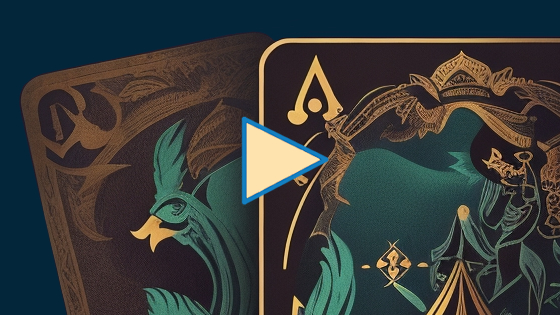
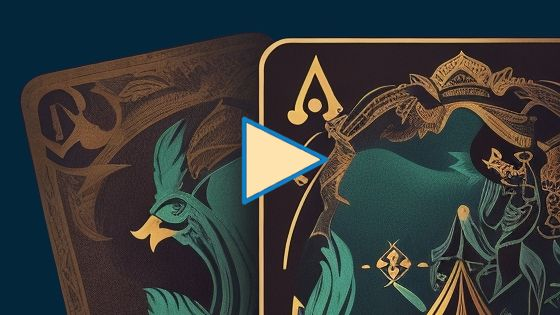
Optimize images

diff --git a/www-public/assets/css/style.min.css b/www-public/assets/css/style.min.css
@@ -1,1 +1,1 @@
-*{-webkit-box-sizing:border-box;box-sizing:border-box;margin:0;padding:0}html,body{height:100%;width:100%;font-family:Arial,Helvetica,sans-serif;font-size:95%;background-color:#0f0301}@media(max-width: 420px){html,body{font-size:90%}}#mainNav{width:100%;position:fixed;top:0;background-color:#04263b;display:table;text-align:center}@media(max-width: 720px){#mainNav{display:none}}#mainNav ul li{display:inline-block;list-style:none;text-align:center}#mainNav ul li a{display:inline-block;color:#fff;padding:1.5em;text-decoration:none}#mainNav ul li a:hover{background-color:rgba(249,128,80,.2);color:#f98050}#miniNav{width:100%;position:fixed;top:0;background-color:#04263b;text-align:right;display:none}@media(max-width: 720px){#miniNav{display:inline-block}}label{margin-right:1em;font-size:230%;line-height:1.75em;color:#fff;cursor:pointer}#toggle{display:none}.menu{width:100%;margin-right:0em;position:fixed;top:4em;text-align:center;display:none}@media(max-width: 720px){.menu{display:inline-block}}.menu a{display:block;width:100%;background-color:#04263b;text-decoration:none;color:#fff;line-height:2.5em;border-bottom:1.5px solid rgba(0,0,0,.3);z-index:2}.menu a:first-child{border-top:1.5px solid rgba(0,0,0,.3)}.menu a:hover{background-color:#35383f;color:#f98050}#toggle:checked+.menu{display:table}#background{background:url(/www-public/assets/images/boardgamesfin2.png);width:100%;height:100%;background-size:cover;background-attachment:fixed;padding-bottom:27em}@media(max-width: 420px){#background{padding-bottom:14em;text-align:center}}#background h3{color:#fff;display:table;margin:0 auto;font-weight:normal;margin-top:1.7em;padding-left:5em;padding-right:5em}@media(max-width: 420px){#background h3{padding:1.5em}}#background .firstp{color:#fff;display:table;margin:0 auto;font-weight:normal;margin-top:1.7em}#background img{display:table;margin:0 auto;width:34.375em;padding-top:17.5em}@media(max-width: 545px){#background img{width:95%}}@media(max-width: 420px){#background img{padding-top:14em}}@media(max-width: 385px){#background img{padding-top:10em}}#background #line{display:table;margin:0 auto;width:24.25em;height:.14em;background-color:#fff;margin-top:2em}@media(max-width: 545px){#background #line{width:80%}}button{display:table;margin:0 auto;height:3.3em;width:15em;margin-top:2.5em;background-color:#f98050;border:none;color:#fff;font-size:1.3em;cursor:pointer;outline:none;border-radius:.35em;-webkit-transition:.8s;transition:.8s}@media(max-width: 720px){button{width:95%}}@media(max-width: 420px){button{font-size:105%}}#firstButton{width:15em}@media(max-width: 420px){#firstButton{width:80%}}button:hover{background-color:#0b63af}#about{display:table;width:100%;background-color:#f98050;padding:2em 5em}@media(max-width: 720px){#about{padding:2em 2em;text-align:center}}#about h1{margin-bottom:.7em}@media(max-width: 908px){#about h1{display:table;float:clear;margin-top:1em}}#about p{text-align:left;font-size:105%}#about .video-standin{float:right;padding:1.5em 0 1.2em 1.2em;cursor:pointer}@media(max-width: 908px){#about .video-standin{float:none;padding:0;width:95%}}@media(max-width: 420px){#about .video-standin{height:100%}}#specialcards{display:table;margin:0 auto;width:100%;background-color:#0f0301;padding:2rem 5rem}@media(max-width: 720px){#specialcards{padding:2em 2em}}#specialcards h1,#specialcards .firstp{color:#fff}#specialcards img{width:100%}.dragons{display:-webkit-box;display:-ms-flexbox;display:flex;-ms-flex-wrap:wrap;flex-wrap:wrap;-webkit-box-pack:center;-ms-flex-pack:center;justify-content:center;margin-top:2em;margin-bottom:2em}#red,#green,#blue{margin-right:1em;margin-top:1em;background-color:#fff;-webkit-box-pack:center;-ms-flex-pack:center;justify-content:center;text-align:center;width:25em}@media(max-width: 720px){#red,#green,#blue{width:70%}}@media(max-width: 420px){#red,#green,#blue{width:90%;margin-right:0em}}.redgreenblue{padding:.5em 2em 2em 2em;font-size:105%}.redgreenblue .dragonType{font-size:1.25em;font-weight:bold;color:#000}.redgreenblue .dragonDescription{padding-top:.5em;color:#000}h2{font-weight:normal;color:#0b63af;padding-top:.5em}.line2{display:table;margin:0 auto;width:9rem;height:.14em;background-color:#000;margin-top:.5em}#agenda{display:table;width:100%;background-color:#f98050;padding:2em 5em}@media(max-width: 720px){#agenda{padding:2em 2em}}.scheduleMain{display:-webkit-box;display:-ms-flexbox;display:flex;-ms-flex-wrap:wrap;flex-wrap:wrap;-webkit-box-pack:center;-ms-flex-pack:center;justify-content:center;margin-top:2em;margin-bottom:2em;font-size:105%}.schedule{margin-right:2em;margin-bottom:1em}#tickets{display:table;margin:0 auto;width:100%;background-color:#0f0301;padding:2em 5em}@media(max-width: 720px){#tickets{padding:2em 2em}}#tickets h1,#tickets .firstp{color:#fff}#tickets img{width:100%}#london,#paris,#rome{margin-right:1em;margin-top:1em;background-color:#fff;-webkit-box-pack:center;-ms-flex-pack:center;justify-content:center;text-align:center;width:25em}@media(max-width: 720px){#london,#paris,#rome{width:70%}}@media(max-width: 420px){#london,#paris,#rome{width:90%;margin-right:0em}}footer{display:table;margin:0 auto;width:100%;background-color:#04263b;padding:2em 0 3em 0}@media(max-width: 420px){footer{padding:1em 1em 2em 1em;text-align:center}}footer h2{color:#fff;text-align:center}footer p{display:table;margin:0 auto;color:#fff;margin-top:.5em;font-size:105%}footer a{text-decoration:none;color:#ffaf46}#social{display:-webkit-box;display:-ms-flexbox;display:flex;-webkit-box-pack:center;-ms-flex-pack:center;justify-content:center}.socialMedia{width:6.5em}@media(max-width: 420px){.socialMedia{width:85%}}/*# sourceMappingURL=style.min.css.map */
+*{-webkit-box-sizing:border-box;box-sizing:border-box;margin:0;padding:0}html,body{height:100%;width:100%;font-family:Arial,Helvetica,sans-serif;font-size:95%;background-color:#0f0301}@media(max-width: 420px){html,body{font-size:90%}}#mainNav{width:100%;position:fixed;top:0;background-color:#04263b;display:table;text-align:center}@media(max-width: 720px){#mainNav{display:none}}#mainNav ul li{display:inline-block;list-style:none;text-align:center}#mainNav ul li a{display:inline-block;color:#fff;padding:1.5em;text-decoration:none}#mainNav ul li a:hover{background-color:rgba(249,128,80,.2);color:#f98050}#miniNav{width:100%;position:fixed;top:0;background-color:#04263b;text-align:right;display:none}@media(max-width: 720px){#miniNav{display:inline-block}}label{margin-right:1em;font-size:230%;line-height:1.75em;color:#fff;cursor:pointer}#toggle{display:none}.menu{width:100%;margin-right:0em;position:fixed;top:4em;text-align:center;display:none}@media(max-width: 720px){.menu{display:inline-block}}.menu a{display:block;width:100%;background-color:#04263b;text-decoration:none;color:#fff;line-height:2.5em;border-bottom:1.5px solid rgba(0,0,0,.3);z-index:2}.menu a:first-child{border-top:1.5px solid rgba(0,0,0,.3)}.menu a:hover{background-color:#35383f;color:#f98050}#toggle:checked+.menu{display:table}#background{background:url(/www-public/assets/images/boardgames.webp);-webkit-user-select:none;-moz-user-select:none;-ms-user-select:none;user-select:none;width:100%;height:100%;background-size:cover;background-attachment:fixed;padding-bottom:27em}@media(max-width: 420px){#background{padding-bottom:14em;text-align:center}}#background h3{color:#fff;display:table;margin:0 auto;font-weight:normal;margin-top:1.7em;padding-left:5em;padding-right:5em}@media(max-width: 420px){#background h3{padding:1.5em}}#background .firstp{color:#fff;display:table;margin:0 auto;font-weight:normal;margin-top:1.7em}#background img{display:table;margin:0 auto;width:34.375em;padding-top:17.5em}@media(max-width: 545px){#background img{width:95%}}@media(max-width: 420px){#background img{padding-top:14em}}@media(max-width: 385px){#background img{padding-top:10em}}#background #line{display:table;margin:0 auto;width:24.25em;height:.14em;background-color:#fff;margin-top:2em}@media(max-width: 545px){#background #line{width:80%}}button{display:table;margin:0 auto;height:3.3em;width:15em;margin-top:2.5em;background-color:#f98050;border:none;color:#fff;font-size:1.3em;cursor:pointer;outline:none;border-radius:.35em;-webkit-transition:.8s;transition:.8s}@media(max-width: 720px){button{width:95%}}@media(max-width: 420px){button{font-size:105%}}#firstButton{width:15em}@media(max-width: 420px){#firstButton{width:80%}}button:hover{background-color:#0b63af}#about{display:table;width:100%;background-color:#f98050;padding:2em 5em}@media(max-width: 720px){#about{padding:2em 2em;text-align:center}}#about h1{margin-bottom:.7em}@media(max-width: 908px){#about h1{display:table;float:clear;margin-top:1em}}#about p{text-align:left;font-size:105%}#about .video-standin{float:right;padding:1.5em 0 1.2em 1.2em;cursor:pointer}@media(max-width: 908px){#about .video-standin{float:none;padding:0;width:95%}}@media(max-width: 420px){#about .video-standin{height:100%}}#specialcards{display:table;margin:0 auto;width:100%;background-color:#0f0301;padding:2rem 5rem}@media(max-width: 720px){#specialcards{padding:2em 2em}}#specialcards h1,#specialcards .firstp{color:#fff}#specialcards img{width:100%}.dragons{display:-webkit-box;display:-ms-flexbox;display:flex;-ms-flex-wrap:wrap;flex-wrap:wrap;-webkit-box-pack:center;-ms-flex-pack:center;justify-content:center;margin-top:2em;margin-bottom:2em}#red,#green,#blue{margin-right:1em;margin-top:1em;background-color:#fff;-webkit-box-pack:center;-ms-flex-pack:center;justify-content:center;text-align:center;width:25em}@media(max-width: 720px){#red,#green,#blue{width:70%}}@media(max-width: 420px){#red,#green,#blue{width:90%;margin-right:0em}}.redgreenblue{padding:.5em 2em 2em 2em;font-size:105%}.redgreenblue .dragonType{font-size:1.25em;font-weight:bold;color:#000}.redgreenblue .dragonDescription{padding-top:.5em;color:#000}h2{font-weight:normal;color:#0b63af;padding-top:.5em}.line2{display:table;margin:0 auto;width:9rem;height:.14em;background-color:#000;margin-top:.5em}#agenda{display:table;width:100%;background-color:#f98050;padding:2em 5em}@media(max-width: 720px){#agenda{padding:2em 2em}}.scheduleMain{display:-webkit-box;display:-ms-flexbox;display:flex;-ms-flex-wrap:wrap;flex-wrap:wrap;-webkit-box-pack:center;-ms-flex-pack:center;justify-content:center;margin-top:2em;margin-bottom:2em;font-size:105%}.schedule{margin-right:2em;margin-bottom:1em}#tickets{display:table;margin:0 auto;width:100%;background-color:#0f0301;padding:2em 5em}@media(max-width: 720px){#tickets{padding:2em 2em}}#tickets h1,#tickets .firstp{color:#fff}#tickets img{width:100%}#london,#paris,#rome{margin-right:1em;margin-top:1em;background-color:#fff;-webkit-box-pack:center;-ms-flex-pack:center;justify-content:center;text-align:center;width:25em}@media(max-width: 720px){#london,#paris,#rome{width:70%}}@media(max-width: 420px){#london,#paris,#rome{width:90%;margin-right:0em}}footer{display:table;margin:0 auto;width:100%;background-color:#04263b;padding:2em 0 3em 0}@media(max-width: 420px){footer{padding:1em 1em 2em 1em;text-align:center}}footer h2{color:#fff;text-align:center}footer p{display:table;margin:0 auto;color:#fff;margin-top:.5em;font-size:105%}footer a{text-decoration:none;color:#ffaf46}#social{display:-webkit-box;display:-ms-flexbox;display:flex;-webkit-box-pack:center;-ms-flex-pack:center;justify-content:center}.socialMedia{width:6.5em}@media(max-width: 420px){.socialMedia{width:85%}}/*# sourceMappingURL=style.min.css.map */

diff --git a/index.html b/index.html
@@ -70,7 +70,7 @@
         </div>
         <div class="dragons">
             <div id="red">
-                <img src="/www-public/assets/images/red3.png" alt="DRAN">
+                <img src="/www-public/assets/images/red3.webp" alt="DRAN">
                 <h2>Drantraximanus</h2>
                 <div class="line2"></div>
                 <div class="redgreenblue">
@@ -83,7 +83,7 @@
                 </div>
             </div>
             <div id="green">
-                <img src="/www-public/assets/images/green3.png" alt="DESSY">
+                <img src="/www-public/assets/images/green3.webp" alt="DESSY">
                 <h2>Despinotripka</h2>
                 <div class="line2"></div>
                 <div class="redgreenblue">
@@ -96,7 +96,7 @@
                 </div>
             </div>
             <div id="blue">
-                <img src="/www-public/assets/images/blue3.png" alt="TETR">
+                <img src="/www-public/assets/images/blue3.webp" alt="TETR">
                 <h2>Tetroproprix</h2>
                 <div class="line2"></div>
                 <div class="redgreenblue">

diff --git a/dev/scss/_header.scss b/dev/scss/_header.scss
@@ -94,7 +94,8 @@ label {
 
 
 #background {
-    background: url(/www-public/assets/images/boardgamesfin2.png);
+    background: url(/www-public/assets/images/boardgames.webp);
+    user-select: none;
     width: 100%;
     height: 100%;
     background-size: cover;
@@ -132,7 +133,7 @@ label {
         display: table;
         margin: 0 auto;
         width: 34.375em; 
-        padding-top: 17.50em; 
+        padding-top: 17.50em;
 
         @include phone {
             width: 95%;

diff --git a/www-public/assets/css/style.css b/www-public/assets/css/style.css
@@ -109,7 +109,11 @@ label {
 }
 
 #background {
-  background: url(/www-public/assets/images/boardgamesfin2.png);
+  background: url(/www-public/assets/images/boardgames.webp);
+  -webkit-user-select: none;
+     -moz-user-select: none;
+      -ms-user-select: none;
+          user-select: none;
   width: 100%;
   height: 100%;
   background-size: cover;
